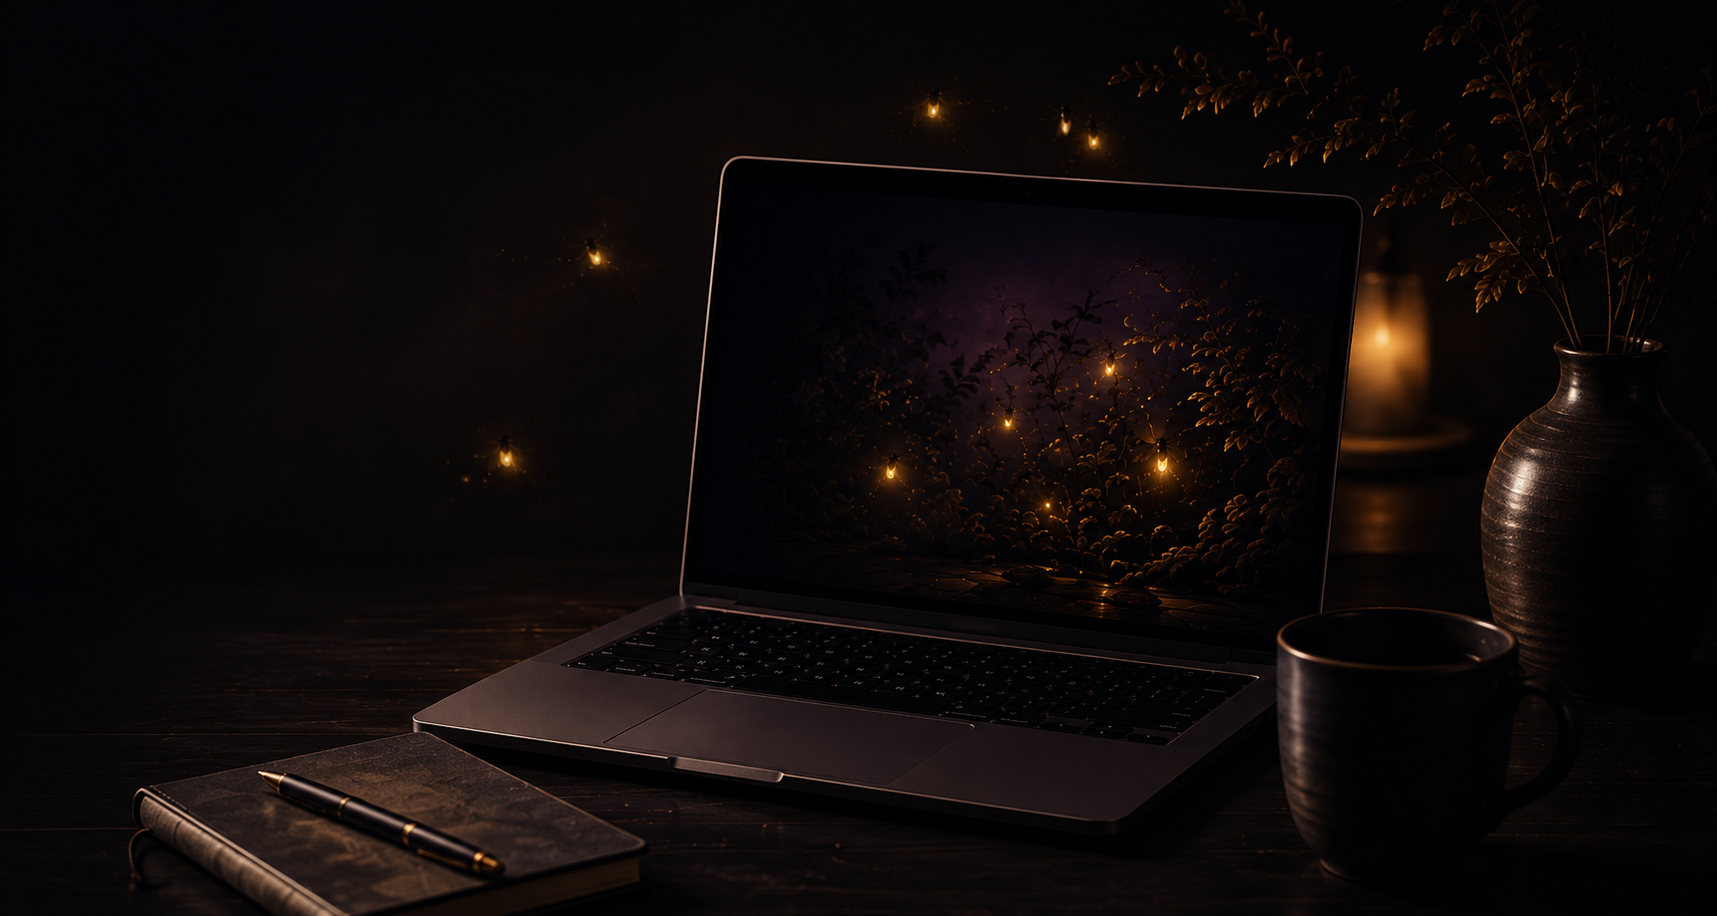
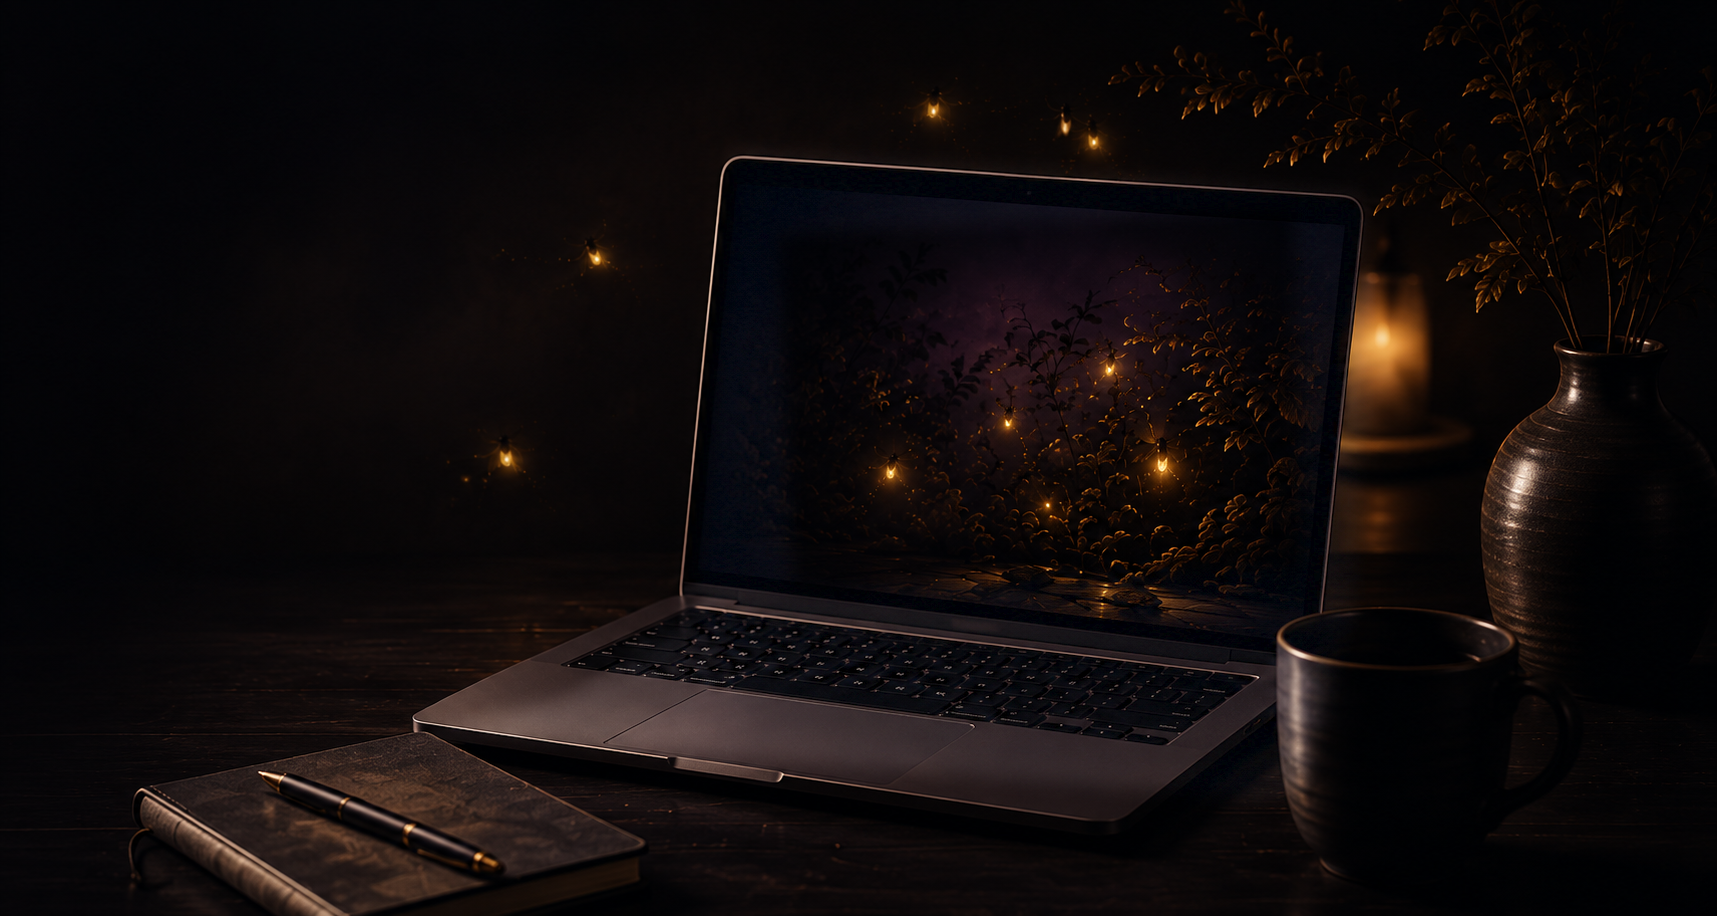
Refine hero: brighten laptop body, add breathing room, crop for impact, add signature motion
- Locally lift exposure on the laptop's aluminum body (lid, keyboard deck, trackpad)
  without touching the screen, so the silhouette reads against the dark background
- Add more space between the headline and subtext
- Crop the hero photo tighter and shift it further right so the laptop reads larger
  and bleeds off the edge, Apple-style, instead of sitting fully inside the frame
- Add a faint right-side atmospheric haze so that side of the hero isn't visually dead
- Add subtle signature motion: a firefly that drifts across the hero every ~18s, a
  slow-breathing glow behind the laptop, and a gentle pulse on the screen glow

diff --git a/app/components/Hero.tsx b/app/components/Hero.tsx
@@ -22,6 +22,29 @@ const anim = (delay: string) => ({
 const NEUTRAL =
   "radial-gradient(ellipse 70% 80% at 50% 50%, transparent 0%, rgba(13,11,20,0.4) 100%)";
 
+/* Signature ambient motion — subtle, slow, never continuous-feeling */
+const breathe = keyframes`
+  0%, 100% { opacity: 0.3; transform: scale(0.94); }
+  50%      { opacity: 0.65; transform: scale(1.06); }
+`;
+
+const screenGlow = keyframes`
+  0%, 100% { opacity: 0.22; }
+  50%      { opacity: 0.5; }
+`;
+
+const fireflyDrift = keyframes`
+  0%   { opacity: 0;    transform: translate(0, 0); }
+  8%   { opacity: 0.85; }
+  50%  { transform: translate(160px, -70px); }
+  92%  { opacity: 0.85; }
+  100% { opacity: 0;    transform: translate(320px, -130px); }
+`;
+
+const reducedMotionFreeze = {
+  "@media (prefers-reduced-motion: reduce)": { animation: "none" },
+};
+
 export default function Hero() {
   const sectionRef = useRef<HTMLDivElement>(null);
   const bgRef = useRef<HTMLDivElement>(null);
@@ -43,7 +66,7 @@ export default function Hero() {
     const handleScroll = () => {
       if (!sectionRef.current || !bgRef.current) return;
       const progress = Math.min(window.scrollY / sectionRef.current.offsetHeight, 1);
-      bgRef.current.style.transform = `translateX(50px) scale(${1.4 + progress * 0.08})`;
+      bgRef.current.style.transform = `translateX(115px) scale(${1.22 + progress * 0.08})`;
       bgRef.current.style.opacity = String((1 - progress * 0.4) * 0.9);
     };
     window.addEventListener("scroll", handleScroll, { passive: true });
@@ -74,12 +97,51 @@ export default function Hero() {
           inset: 0,
           backgroundImage: `url(${skyBg.src})`,
           backgroundSize: "cover",
-          backgroundPosition: { xs: "68% center", md: "68% 58%" },
+          backgroundPosition: { xs: "55% center", md: "56% 50%" },
           willChange: "transform, opacity",
           transformOrigin: "center center",
-          transform: "translateX(50px) scale(1.4)",
+          transform: "translateX(115px) scale(1.22)",
           opacity: 0.9,
           filter: "brightness(0.62) contrast(1.15)",
+        }}
+      />
+
+      {/* Breathing glow — slowly pulses behind the laptop */}
+      <Box
+        aria-hidden
+        sx={{
+          position: "absolute",
+          top: "18%",
+          right: { xs: "-10%", md: "6%" },
+          width: { xs: 360, md: 480 },
+          height: { xs: 360, md: 480 },
+          borderRadius: "50%",
+          background:
+            "radial-gradient(circle, rgba(216,179,106,0.16) 0%, rgba(216,179,106,0.05) 55%, transparent 75%)",
+          mixBlendMode: "screen",
+          pointerEvents: "none",
+          animation: `${breathe} 9s ease-in-out infinite`,
+          ...reducedMotionFreeze,
+        }}
+      />
+
+      {/* Screen glow — mirrors the laptop display gently brightening */}
+      <Box
+        aria-hidden
+        sx={{
+          position: "absolute",
+          top: { xs: "22%", md: "20%" },
+          right: { xs: "12%", md: "26%" },
+          width: { xs: 140, md: 190 },
+          height: { xs: 100, md: 135 },
+          borderRadius: "8px",
+          background:
+            "radial-gradient(ellipse, rgba(232,206,148,0.5) 0%, rgba(147,112,219,0.14) 55%, transparent 80%)",
+          filter: "blur(14px)",
+          mixBlendMode: "screen",
+          pointerEvents: "none",
+          animation: `${screenGlow} 6s ease-in-out infinite`,
+          ...reducedMotionFreeze,
         }}
       />
 
@@ -93,6 +155,40 @@ export default function Hero() {
             xs: "linear-gradient(180deg, rgba(13,11,20,0.70) 0%, rgba(13,11,20,0.50) 50%, rgba(13,11,20,0.70) 100%)",
             md: "linear-gradient(90deg, rgba(13,11,20,0.99) 0%, rgba(13,11,20,0.94) 32%, rgba(13,11,20,0.40) 58%, rgba(13,11,20,0.05) 100%)",
           },
+        }}
+      />
+
+      {/* Right-side atmosphere — faint haze to keep the dark side alive */}
+      <Box
+        aria-hidden
+        sx={{
+          position: "absolute",
+          inset: 0,
+          background: {
+            xs: "none",
+            md: "radial-gradient(ellipse 55% 65% at 88% 30%, rgba(216,179,106,0.05) 0%, transparent 60%), radial-gradient(ellipse 45% 55% at 78% 85%, rgba(90,70,120,0.10) 0%, transparent 65%)",
+          },
+          mixBlendMode: "screen",
+          pointerEvents: "none",
+        }}
+      />
+
+      {/* Drifting firefly — one slow pass every ~18s */}
+      <Box
+        aria-hidden
+        sx={{
+          display: { xs: "none", md: "block" },
+          position: "absolute",
+          left: "58%",
+          top: "62%",
+          width: 5,
+          height: 5,
+          borderRadius: "50%",
+          backgroundColor: "#E8CE94",
+          boxShadow: "0 0 10px 3px rgba(232,206,148,0.85), 0 0 24px 8px rgba(216,179,106,0.35)",
+          pointerEvents: "none",
+          animation: `${fireflyDrift} 18s ease-in-out infinite`,
+          "@media (prefers-reduced-motion: reduce)": { display: "none" },
         }}
       />
 
@@ -137,7 +233,7 @@ export default function Hero() {
               fontSize: { xs: "36px", sm: "49px", md: "65px" },
               lineHeight: 1.02,
               color: "#F2E8CF",
-              mb: { xs: 2.5, md: 3 },
+              mb: { xs: 3.5, md: 4 },
             }}
           >
             Websites
@@ -168,7 +264,7 @@ export default function Hero() {
               height: 2,
               borderRadius: 1,
               bgcolor: "#D8B36A",
-              mb: { xs: 3, md: 3.5 },
+              mb: { xs: 5, md: 5.5 },
             }}
           />
 